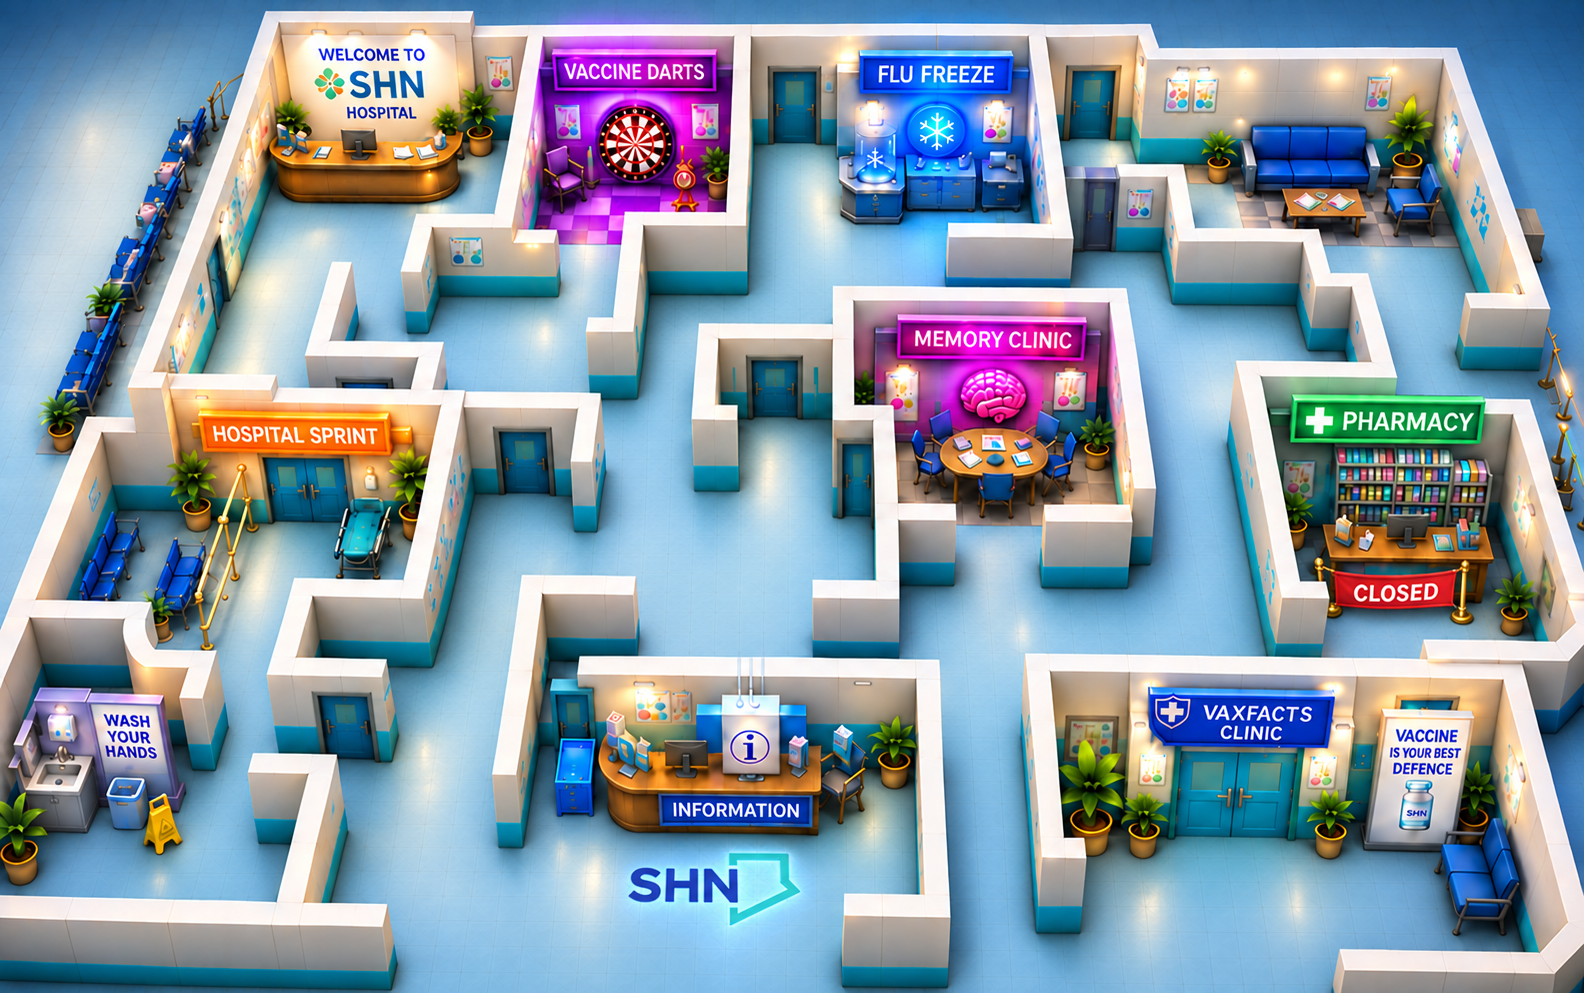
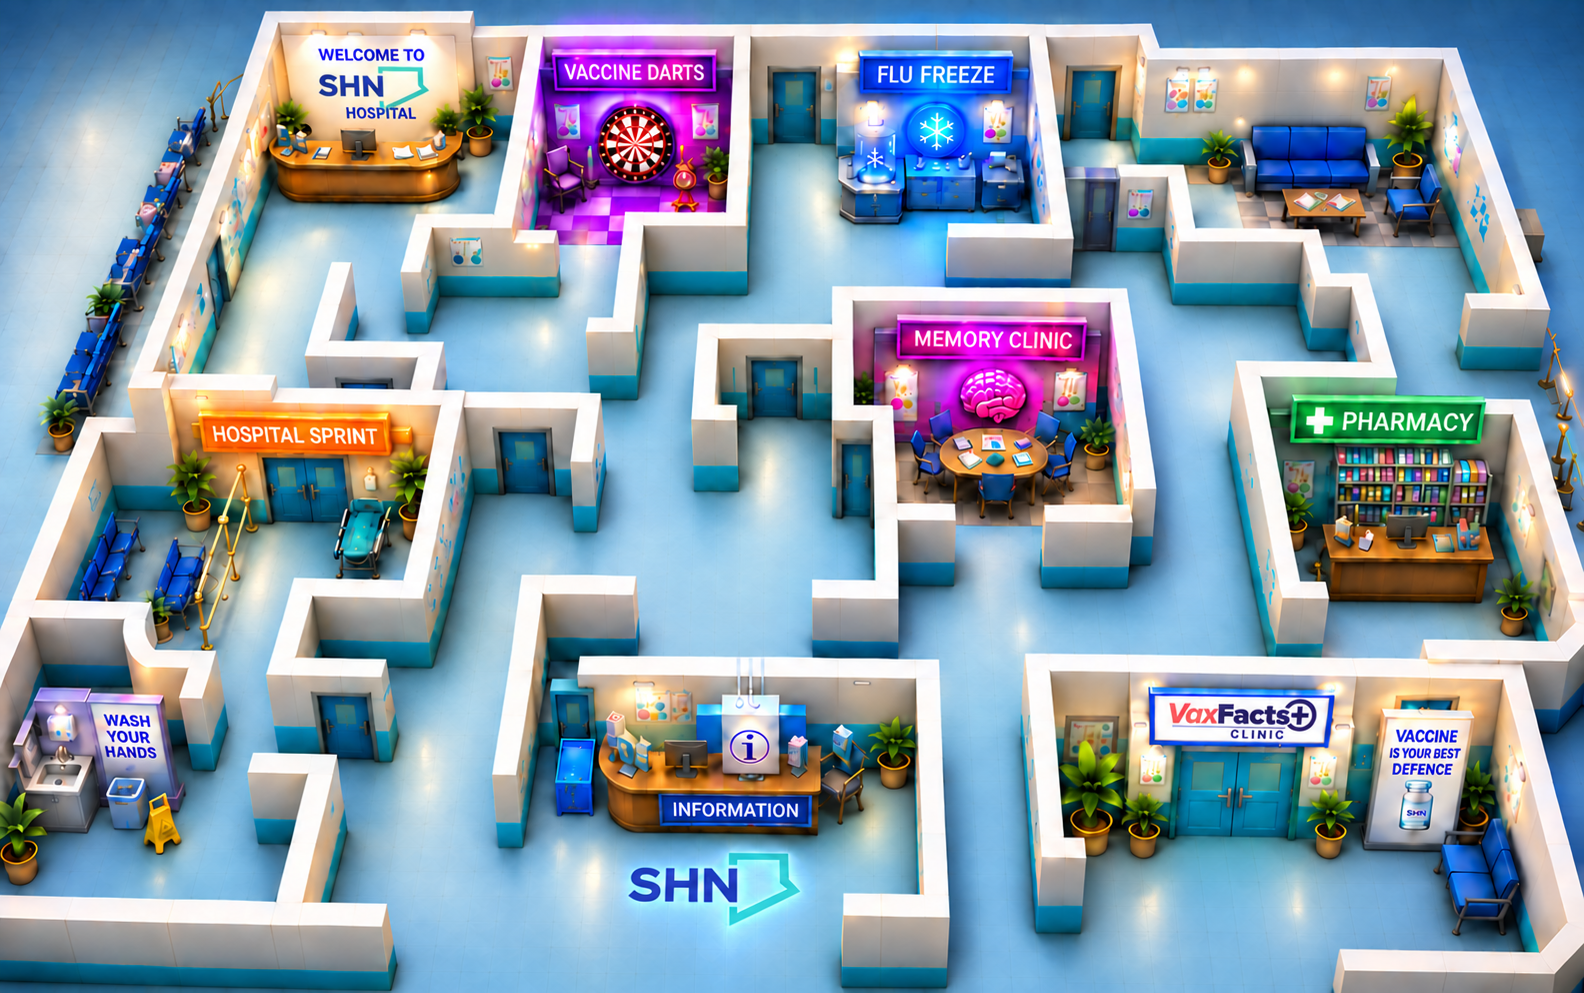
Swap in updated maze backdrop (maze-bg.png v5, cosmetic; walls unchanged)

diff --git a/index.html b/index.html
@@ -24,7 +24,7 @@
       href="https://fonts.googleapis.com/css2?family=Baloo+2:wght@600;700;800&display=swap"
       rel="stylesheet"
     />
-    <link rel="stylesheet" href="style.css?v=46" />
+    <link rel="stylesheet" href="style.css?v=47" />
   </head>
   <body>
     <!-- =========================================================
@@ -508,7 +508,7 @@
     <!-- Collision map auto-generated from the maze artwork (see assets/maze/). -->
     <script src="assets/maze/wallmask.js"></script>
     <!-- Educational Flu Facts content + rotation logic (loaded before script.js). -->
-    <script src="fluFacts.js?v=46"></script>
-    <script src="script.js?v=46"></script>
+    <script src="fluFacts.js?v=47"></script>
+    <script src="script.js?v=47"></script>
   </body>
 </html>

diff --git a/style.css b/style.css
@@ -5235,7 +5235,7 @@ img {
    floor. Flat (no 3D tilt); elements sit on top at image-pixel positions.
    ========================================================================= */
 #maze-world.img-mode {
-  background: url("assets/maze/maze-bg.png?v=4") center / 100% 100% no-repeat;
+  background: url("assets/maze/maze-bg.png?v=5") center / 100% 100% no-repeat;
   transform: none;
 }
 #maze-world.img-mode::before {

diff --git a/script.js b/script.js
@@ -878,7 +878,7 @@ function rotateSlogan(elId) {
 // supported) means the first paint is immediate.
 function preloadHeavyArt() {
   const urls = [
-    "assets/maze/maze-bg.png?v=4", // the maze floor (must match the CSS url)
+    "assets/maze/maze-bg.png?v=5", // the maze floor (must match the CSS url)
     "assets/backgrounds/sick-home-bg.png", // Recovery Week backdrop
   ];
   urls.forEach((u) => {
